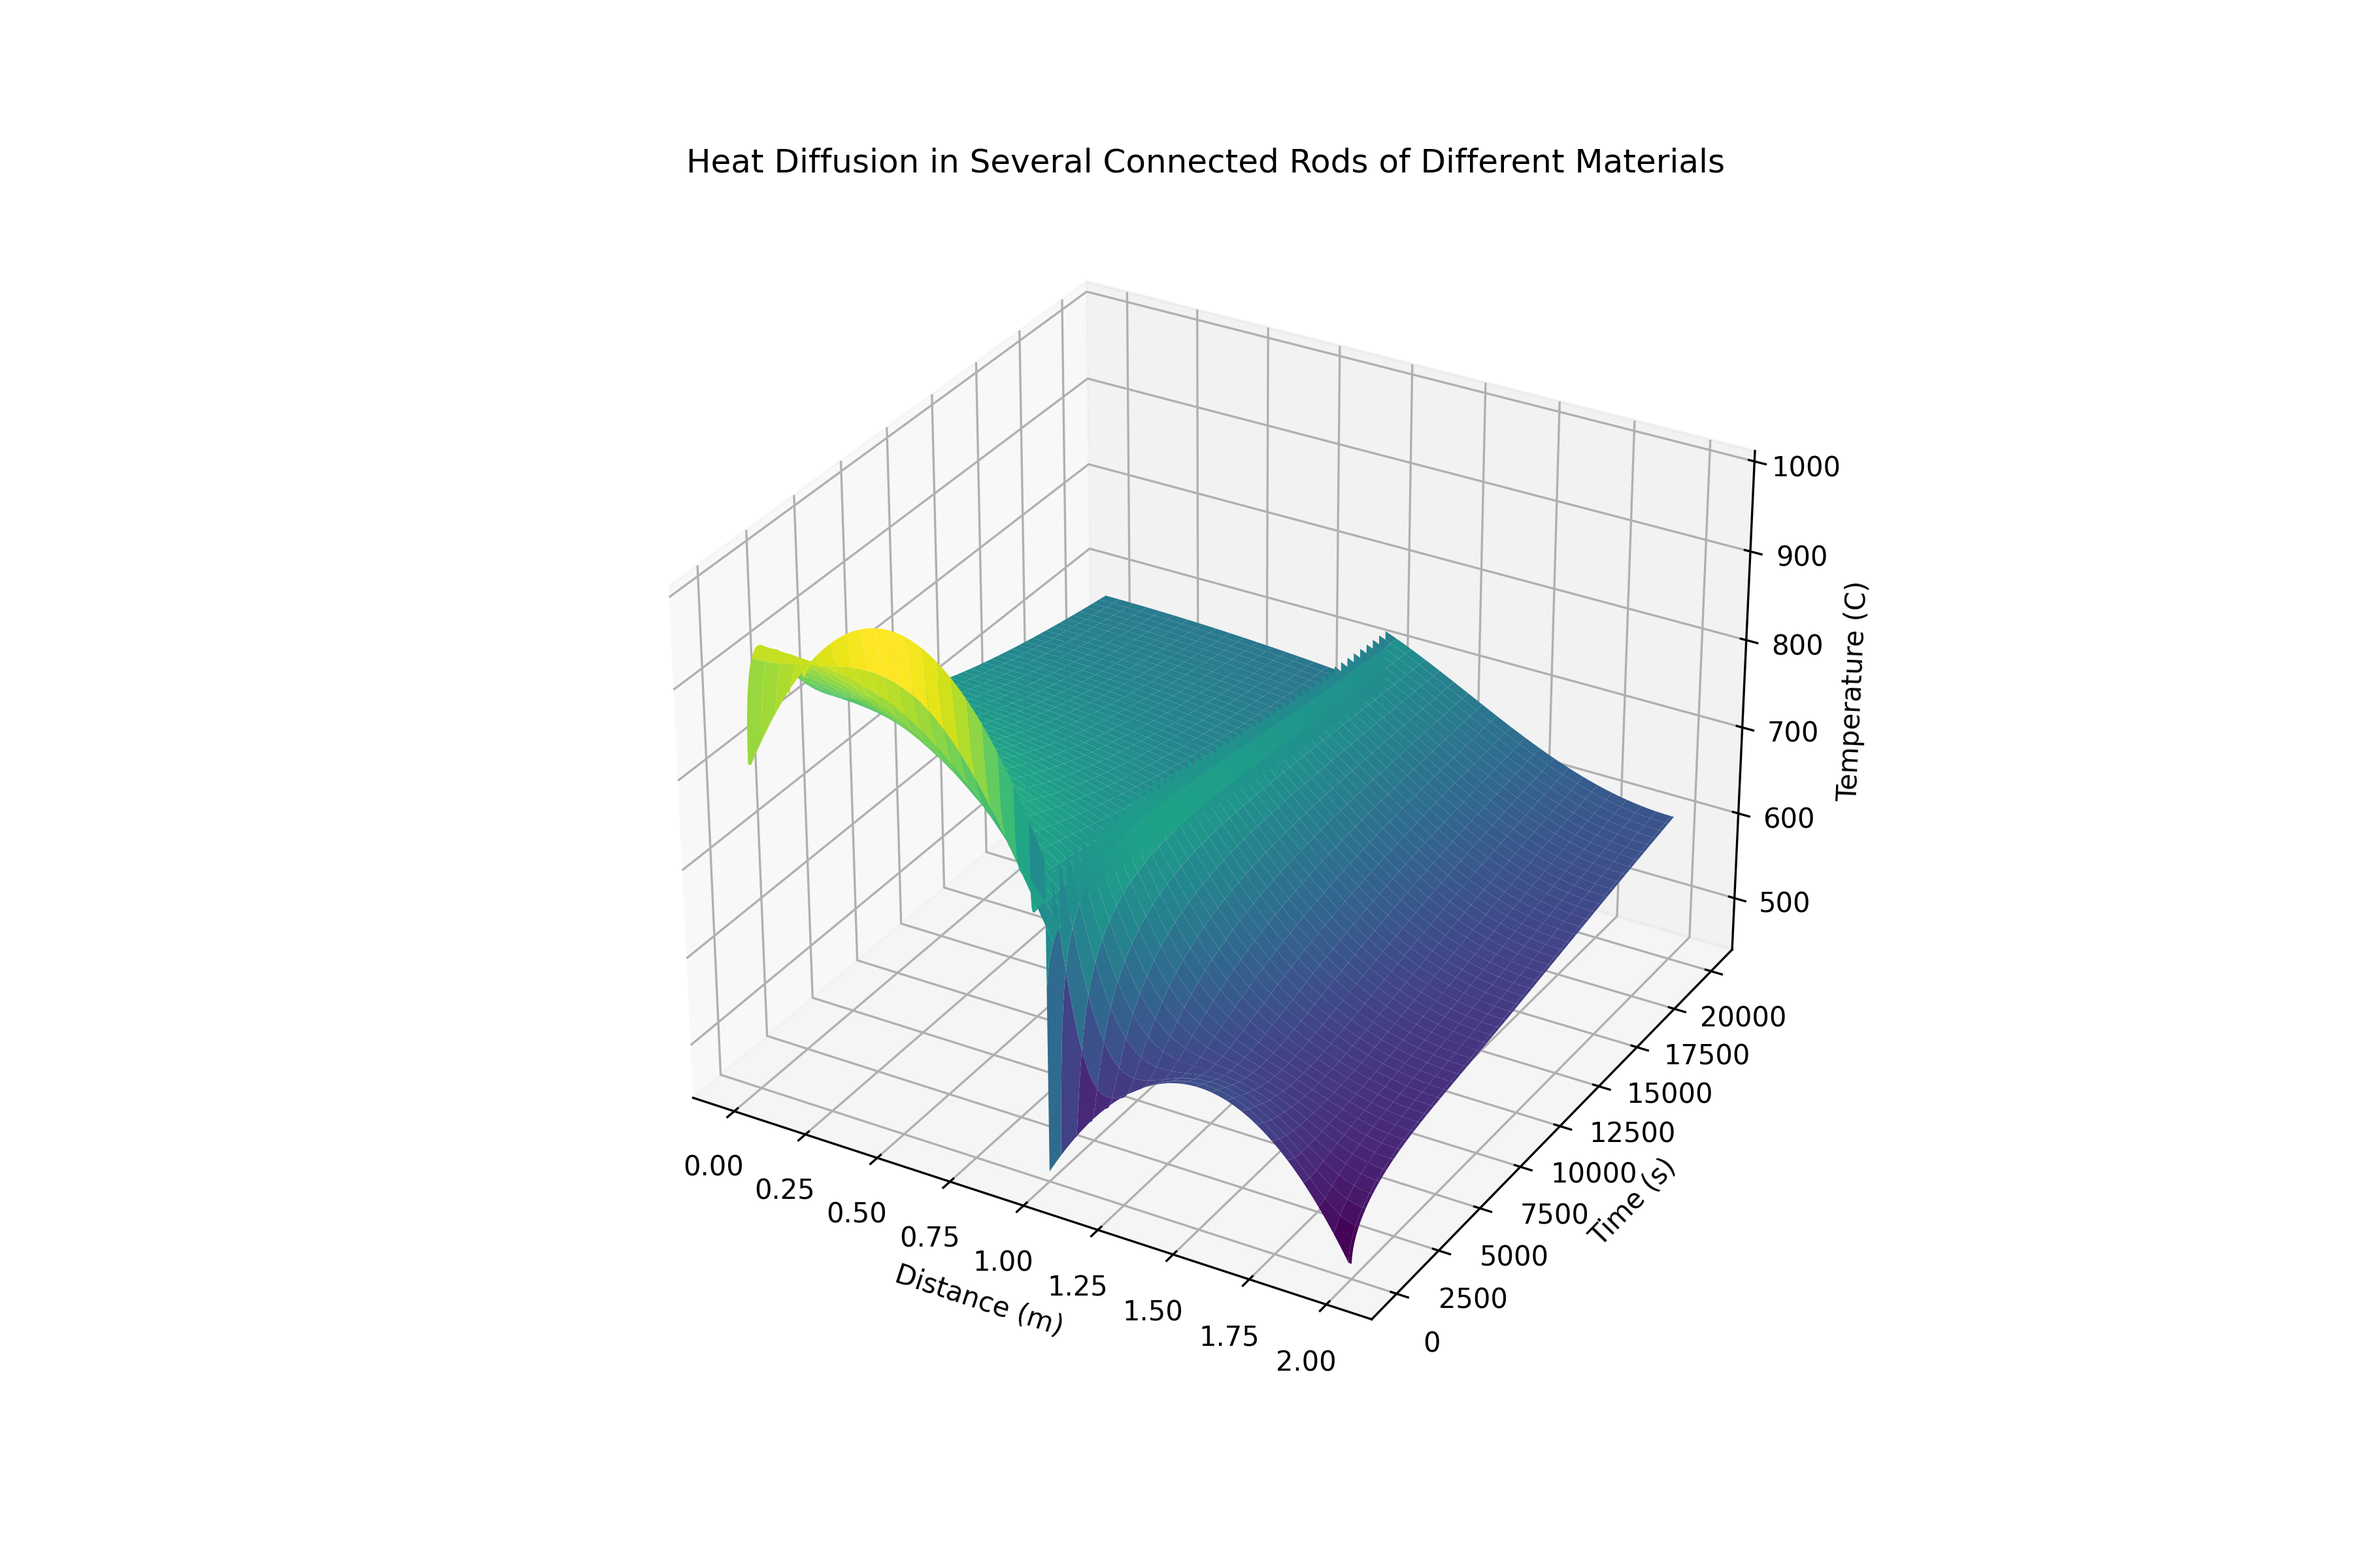
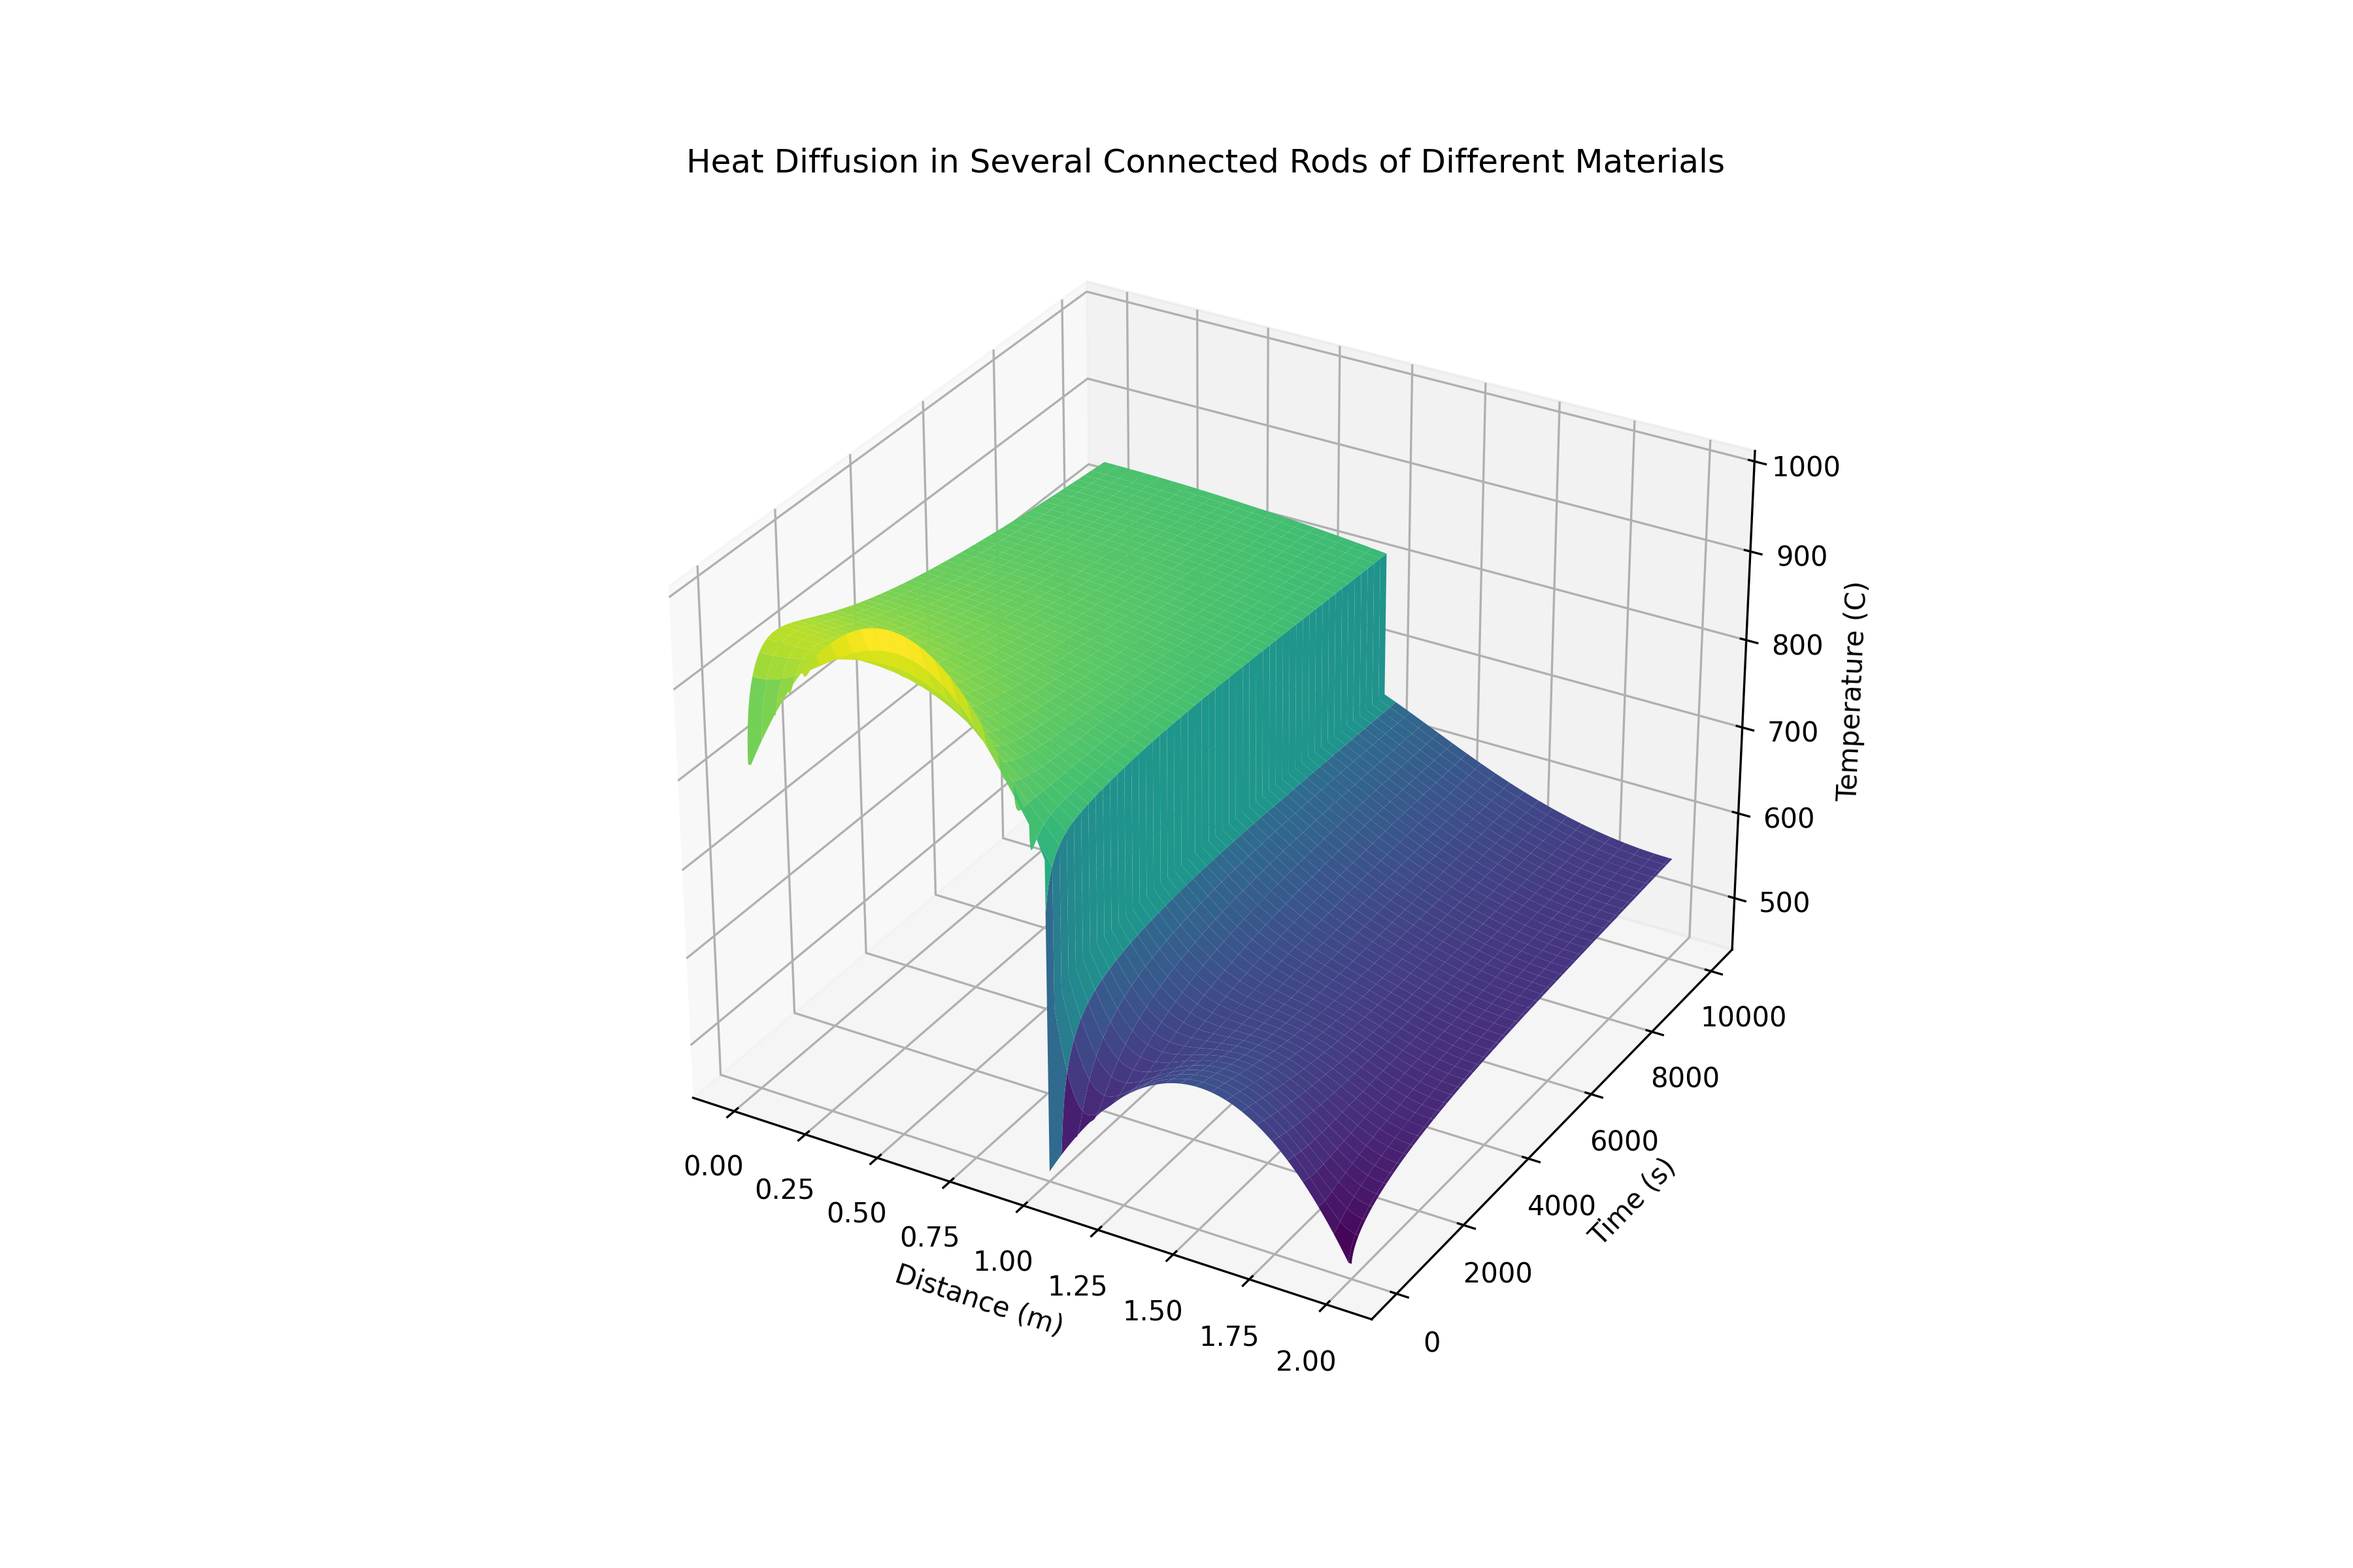
Added case of variable diffusivity

Changed region(s): [[0.3111, 0.2812, 0.7156, 0.7812], [0.6533, 0.6562, 0.7467, 0.7812], [0.6222, 0.7812, 0.6533, 0.8438]]

diff --git a/Heat_diffusion_in_metal_rods/Two_connected_rods_variable_diffusivity_mBC.py b/Heat_diffusion_in_metal_rods/Two_connected_rods_variable_diffusivity_mBC.py
@@ -1,0 +1,99 @@
+####################################################################################################
+# Solving heat diffusion for system with two metal rods of different material using 
+# finite difference method initially heated to two different arbitrary temperature profiles 
+# T(x, 0) = -800 * (x - 0.6)**2 + 1000  and 
+# T(x, 0) = -600 * (x - 1.5)**2 + 600
+# and then joined together while keeping their extreme ends isolated. 
+# The heat flow balances in both rods to equilibriate. 
+####################################################################################################
+
+import matplotlib.pyplot as plt
+import numpy as np
+from numba import njit
+
+
+@njit
+def my_code():
+    # Constants and parameters
+    L_rod1 = 1.0  # length of the first rod
+    L_rod2 = 1.0  # length of the second rod
+    dt = 0.1  # time step
+    dx = 0.01  # spatial step
+    duration = 10000  # total simulation time
+
+    gamma = 0.9
+
+    # Discretization
+    Nx_rod1 = int(L_rod1 / dx) + 1
+    Nx_rod2 = int(L_rod2 / dx) + 1
+    Nt = int(duration / dt) + 1
+
+    alpha_rod1 = 1e-4*np.linspace(0.1, 1, Nx_rod1)  # thermal diffusivity for rod 1
+    alpha_rod2 = 1e-4*np.linspace(0.1, 1, Nx_rod2)  # thermal diffusivity for rod 2
+
+    # Define spatial coordinates for each rod
+    x_values_rod1 = np.linspace(0, L_rod1, Nx_rod1)
+    x_values_rod2 = np.linspace(L_rod1, L_rod1 + L_rod2, Nx_rod2)
+    x_values_total = np.concatenate((x_values_rod1, x_values_rod2))
+
+    # Initialize temperature arrays for each rod
+    T_rod1 = np.zeros((Nt, Nx_rod1))
+    T_rod2 = np.zeros((Nt, Nx_rod2))
+
+    # Initial conditions for each rod
+    T_rod1[0, :] = -800 * (x_values_rod1 - 0.5)**2 + 1000
+    T_rod2[0, :] = -600 * (x_values_rod2 - 1.5)**2 + 600
+
+    # Boundary conditions
+    T_rod1[:, 0] = T_rod1[:, 1]  # Isolated boundary for rod 1
+    T_rod2[:, -1] = T_rod2[:, -2]  # Isolated boundary for rod 2
+
+    # Finite difference method for each rod
+    for n in (range(0, Nt - 1)):
+        for i in range(1, Nx_rod1 - 1):
+            T_rod1[n + 1, i] = T_rod1[n, i] + alpha_rod1[i] * dt / dx**2 * (T_rod1[n, i + 1] - 2 * T_rod1[n, i] + T_rod1[n, i - 1]) + (alpha_rod1[i+1] - alpha_rod1[i]) * dt / (dx**2) * (T_rod1[n, i + 1] - T_rod1[n, i])
+
+        for i in range(1, Nx_rod2 - 1):
+            T_rod2[n + 1, i] = T_rod2[n, i] + alpha_rod2[i] * dt / dx**2 * (T_rod2[n, i + 1] - 2 * T_rod2[n, i] + T_rod2[n, i - 1]) + (alpha_rod2[i+1] - alpha_rod2[i]) * dt / (dx**2) * (T_rod2[n, i + 1] - T_rod2[n, i])
+
+        # Isolated boundary conditions for both rods
+        T_rod1[n + 1, 0] = T_rod1[n, 1]
+        T_rod2[n + 1, -1] = T_rod2[n, -2]
+
+        # Boundary condition at the junction of the two rods
+        T_rod1[n + 1, -1] = (alpha_rod1[-1]*T_rod1[n+1, -2] + alpha_rod2[0]*T_rod2[n+1, 1]) / (alpha_rod1[-1] + gamma*alpha_rod2[0])
+        T_rod2[n + 1, 0] = (alpha_rod1[-1]*T_rod1[n+1, -2] + alpha_rod2[0]*T_rod2[n+1, 1]) / (alpha_rod1[-1]/gamma + alpha_rod2[0])
+
+    # Combine the temperatures of the two rods
+    T_total = np.concatenate((T_rod1, T_rod2), axis=1)
+
+    return T_total, x_values_total, duration, Nt
+
+T_total, x_values_total, duration, Nt = my_code()
+
+def plot_3D():
+    # Create a 3D surface plot for the total temperature
+    X_total, T_values_total = np.meshgrid(x_values_total, np.linspace(0, duration, Nt))
+    fig = plt.figure(figsize=(12, 8))
+    ax = fig.add_subplot(111, projection='3d')
+    ax.plot_surface(X_total, T_values_total, T_total, cmap='viridis')
+    ax.set_xlabel('Distance (m)')
+    ax.set_ylabel('Time (s)')
+    ax.set_zlabel('Temperature (C)')
+    ax.set_title('Heat Diffusion in Several Connected Rods of Different Materials')
+
+    plt.savefig('Heat_diffusion_in_metal_rods/Plots/HeatDiff_two_connected_rods_mdiff_mBC_3D.png', dpi=300)
+
+def plot_2D():
+    # Create a 2D plot for Temperature vs Length for every (Nt/10)th time step
+    plt.figure(figsize=(12, 8))
+    for i in range(0, Nt, int(Nt/10)):
+        plt.plot(x_values_total, T_total[i, :], label='t = ' + str(i*duration/(Nt-1)) + ' s')
+    plt.xlabel('Distance (m)')
+    plt.ylabel('Temperature (C)')
+    plt.title('Heat Diffusion in Several Connected Rods of Different Materials')
+    plt.legend()
+    plt.savefig('Heat_diffusion_in_metal_rods/Plots/HeatDiff_two_connected_rods_mdiff_mBC.png', dpi=300)
+
+plot_3D()
+plt.show()

diff --git a/Heat_diffusion_in_metal_rods/Two_connected_rods_variable_diffusivity.py b/Heat_diffusion_in_metal_rods/Two_connected_rods_variable_diffusivity.py
@@ -1,0 +1,98 @@
+####################################################################################################
+# Solving heat diffusion for system with two metal rods of different material using 
+# finite difference method initially heated to two different arbitrary temperature profiles 
+# T(x, 0) = -800 * (x - 0.6)**2 + 1000  and 
+# T(x, 0) = -600 * (x - 1.5)**2 + 600
+# and then joined together while keeping their extreme ends isolated. 
+# The heat flow balances in both rods to equilibriate. 
+####################################################################################################
+
+import matplotlib.pyplot as plt
+import numpy as np
+from numba import njit
+
+
+@njit
+def my_code():
+    # Constants and parameters
+    L_rod1 = 1.0  # length of the first rod
+    L_rod2 = 1.0  # length of the second rod
+    dt = 0.1  # time step
+    dx = 0.01  # spatial step
+    duration = 10000  # total simulation time
+
+    # Discretization
+    Nx_rod1 = int(L_rod1 / dx) + 1
+    Nx_rod2 = int(L_rod2 / dx) + 1
+    Nt = int(duration / dt) + 1
+
+    alpha_rod1 = 1e-4*np.linspace(0.1, 1, Nx_rod1)  # thermal diffusivity for rod 1
+    alpha_rod2 = 1e-4*np.linspace(0.1, 1, Nx_rod2)  # thermal diffusivity for rod 2
+
+    # Define spatial coordinates for each rod
+    x_values_rod1 = np.linspace(0, L_rod1, Nx_rod1)
+    x_values_rod2 = np.linspace(L_rod1, L_rod1 + L_rod2, Nx_rod2)
+    x_values_total = np.concatenate((x_values_rod1, x_values_rod2))
+
+    # Initialize temperature arrays for each rod
+    T_rod1 = np.zeros((Nt, Nx_rod1))
+    T_rod2 = np.zeros((Nt, Nx_rod2))
+
+    # Initial conditions for each rod
+    T_rod1[0, :] = -800 * (x_values_rod1 - 0.5)**2 + 1000
+    T_rod2[0, :] = -600 * (x_values_rod2 - 1.5)**2 + 600
+
+    # Boundary conditions
+    T_rod1[:, 0] = T_rod1[:, 1]  # Isolated boundary for rod 1
+    T_rod2[:, -1] = T_rod2[:, -2]  # Isolated boundary for rod 2
+
+    # Finite difference method for each rod
+    for n in (range(0, Nt - 1)):
+        for i in range(1, Nx_rod1 - 1):
+            T_rod1[n + 1, i] = T_rod1[n, i] + alpha_rod1[i] * dt / dx**2 * (T_rod1[n, i + 1] - 2 * T_rod1[n, i] + T_rod1[n, i - 1]) + (alpha_rod1[i+1] - alpha_rod1[i]) * dt / (dx**2) * (T_rod1[n, i + 1] - T_rod1[n, i])
+
+        for i in range(1, Nx_rod2 - 1):
+            T_rod2[n + 1, i] = T_rod2[n, i] + alpha_rod2[i] * dt / dx**2 * (T_rod2[n, i + 1] - 2 * T_rod2[n, i] + T_rod2[n, i - 1]) + (alpha_rod2[i+1] - alpha_rod2[i]) * dt / (dx**2) * (T_rod2[n, i + 1] - T_rod2[n, i])
+
+        # Isolated boundary conditions for both rods
+        T_rod1[n + 1, 0] = T_rod1[n, 1]
+        T_rod2[n + 1, -1] = T_rod2[n, -2]
+
+        # Boundary condition at the junction of the two rods
+        T_rod1[n + 1, -1] = (alpha_rod1[-1]*T_rod1[n+1, -2] + alpha_rod2[0]*T_rod2[n+1, 1]) / (alpha_rod1[-1] + alpha_rod2[0])
+        T_rod2[n + 1, 0] = T_rod1[n + 1, -1]
+
+    # Combine the temperatures of the two rods
+    T_total = np.concatenate((T_rod1, T_rod2), axis=1)
+
+    return T_total, x_values_total, duration, Nt
+
+T_total, x_values_total, duration, Nt = my_code()
+
+def plot_3D():
+    # Create a 3D surface plot for the total temperature
+    X_total, T_values_total = np.meshgrid(x_values_total, np.linspace(0, duration, Nt))
+    fig = plt.figure(figsize=(12, 8))
+    ax = fig.add_subplot(111, projection='3d')
+    ax.plot_surface(X_total, T_values_total, T_total, cmap='viridis')
+    ax.set_xlabel('Distance (m)')
+    ax.set_ylabel('Time (s)')
+    ax.set_zlabel('Temperature (C)')
+    ax.set_title('Heat Diffusion in Several Connected Rods of Different Materials')
+
+    plt.savefig('Heat_diffusion_in_metal_rods/Plots/HeatDiff_two_connected_rods_mdiff_3D.png', dpi=300)
+
+def plot_2D():
+    # Create a 2D plot for Temperature vs Length for every (Nt/10)th time step
+    plt.figure(figsize=(12, 8))
+    for i in range(0, Nt, int(Nt/10)):
+        plt.plot(x_values_total, T_total[i, :], label='t = ' + str(i*duration/(Nt-1)) + ' s')
+    plt.xlabel('Distance (m)')
+    plt.ylabel('Temperature (C)')
+    plt.title('Heat Diffusion in Several Connected Rods of Different Materials')
+    plt.legend()
+    plt.savefig('Heat_diffusion_in_metal_rods/Plots/HeatDiff_two_connected_rods_mdiff.png', dpi=300)
+
+plot_3D()
+plt.show()
+

diff --git a/Heat_diffusion_in_metal_rods/Two_different_rods_merged_mBC.py b/Heat_diffusion_in_metal_rods/Two_different_rods_merged_mBC.py
@@ -21,12 +21,12 @@ def my_code():
     alpha_rod2 = 1e-5  # thermal diffusivity for rod 2
     dt = 0.1  # time step
     dx = 0.01  # spatial step
-    duration = 20000  # total simulation time
+    duration = 10000  # total simulation time
 
     k_rod1 = 398.0
     k_rod2 = 100.0
 
-    gamma = 0.9
+    gamma = 0.8
 
     # Discretization
     Nx_rod1 = int(L_rod1 / dx) + 1
